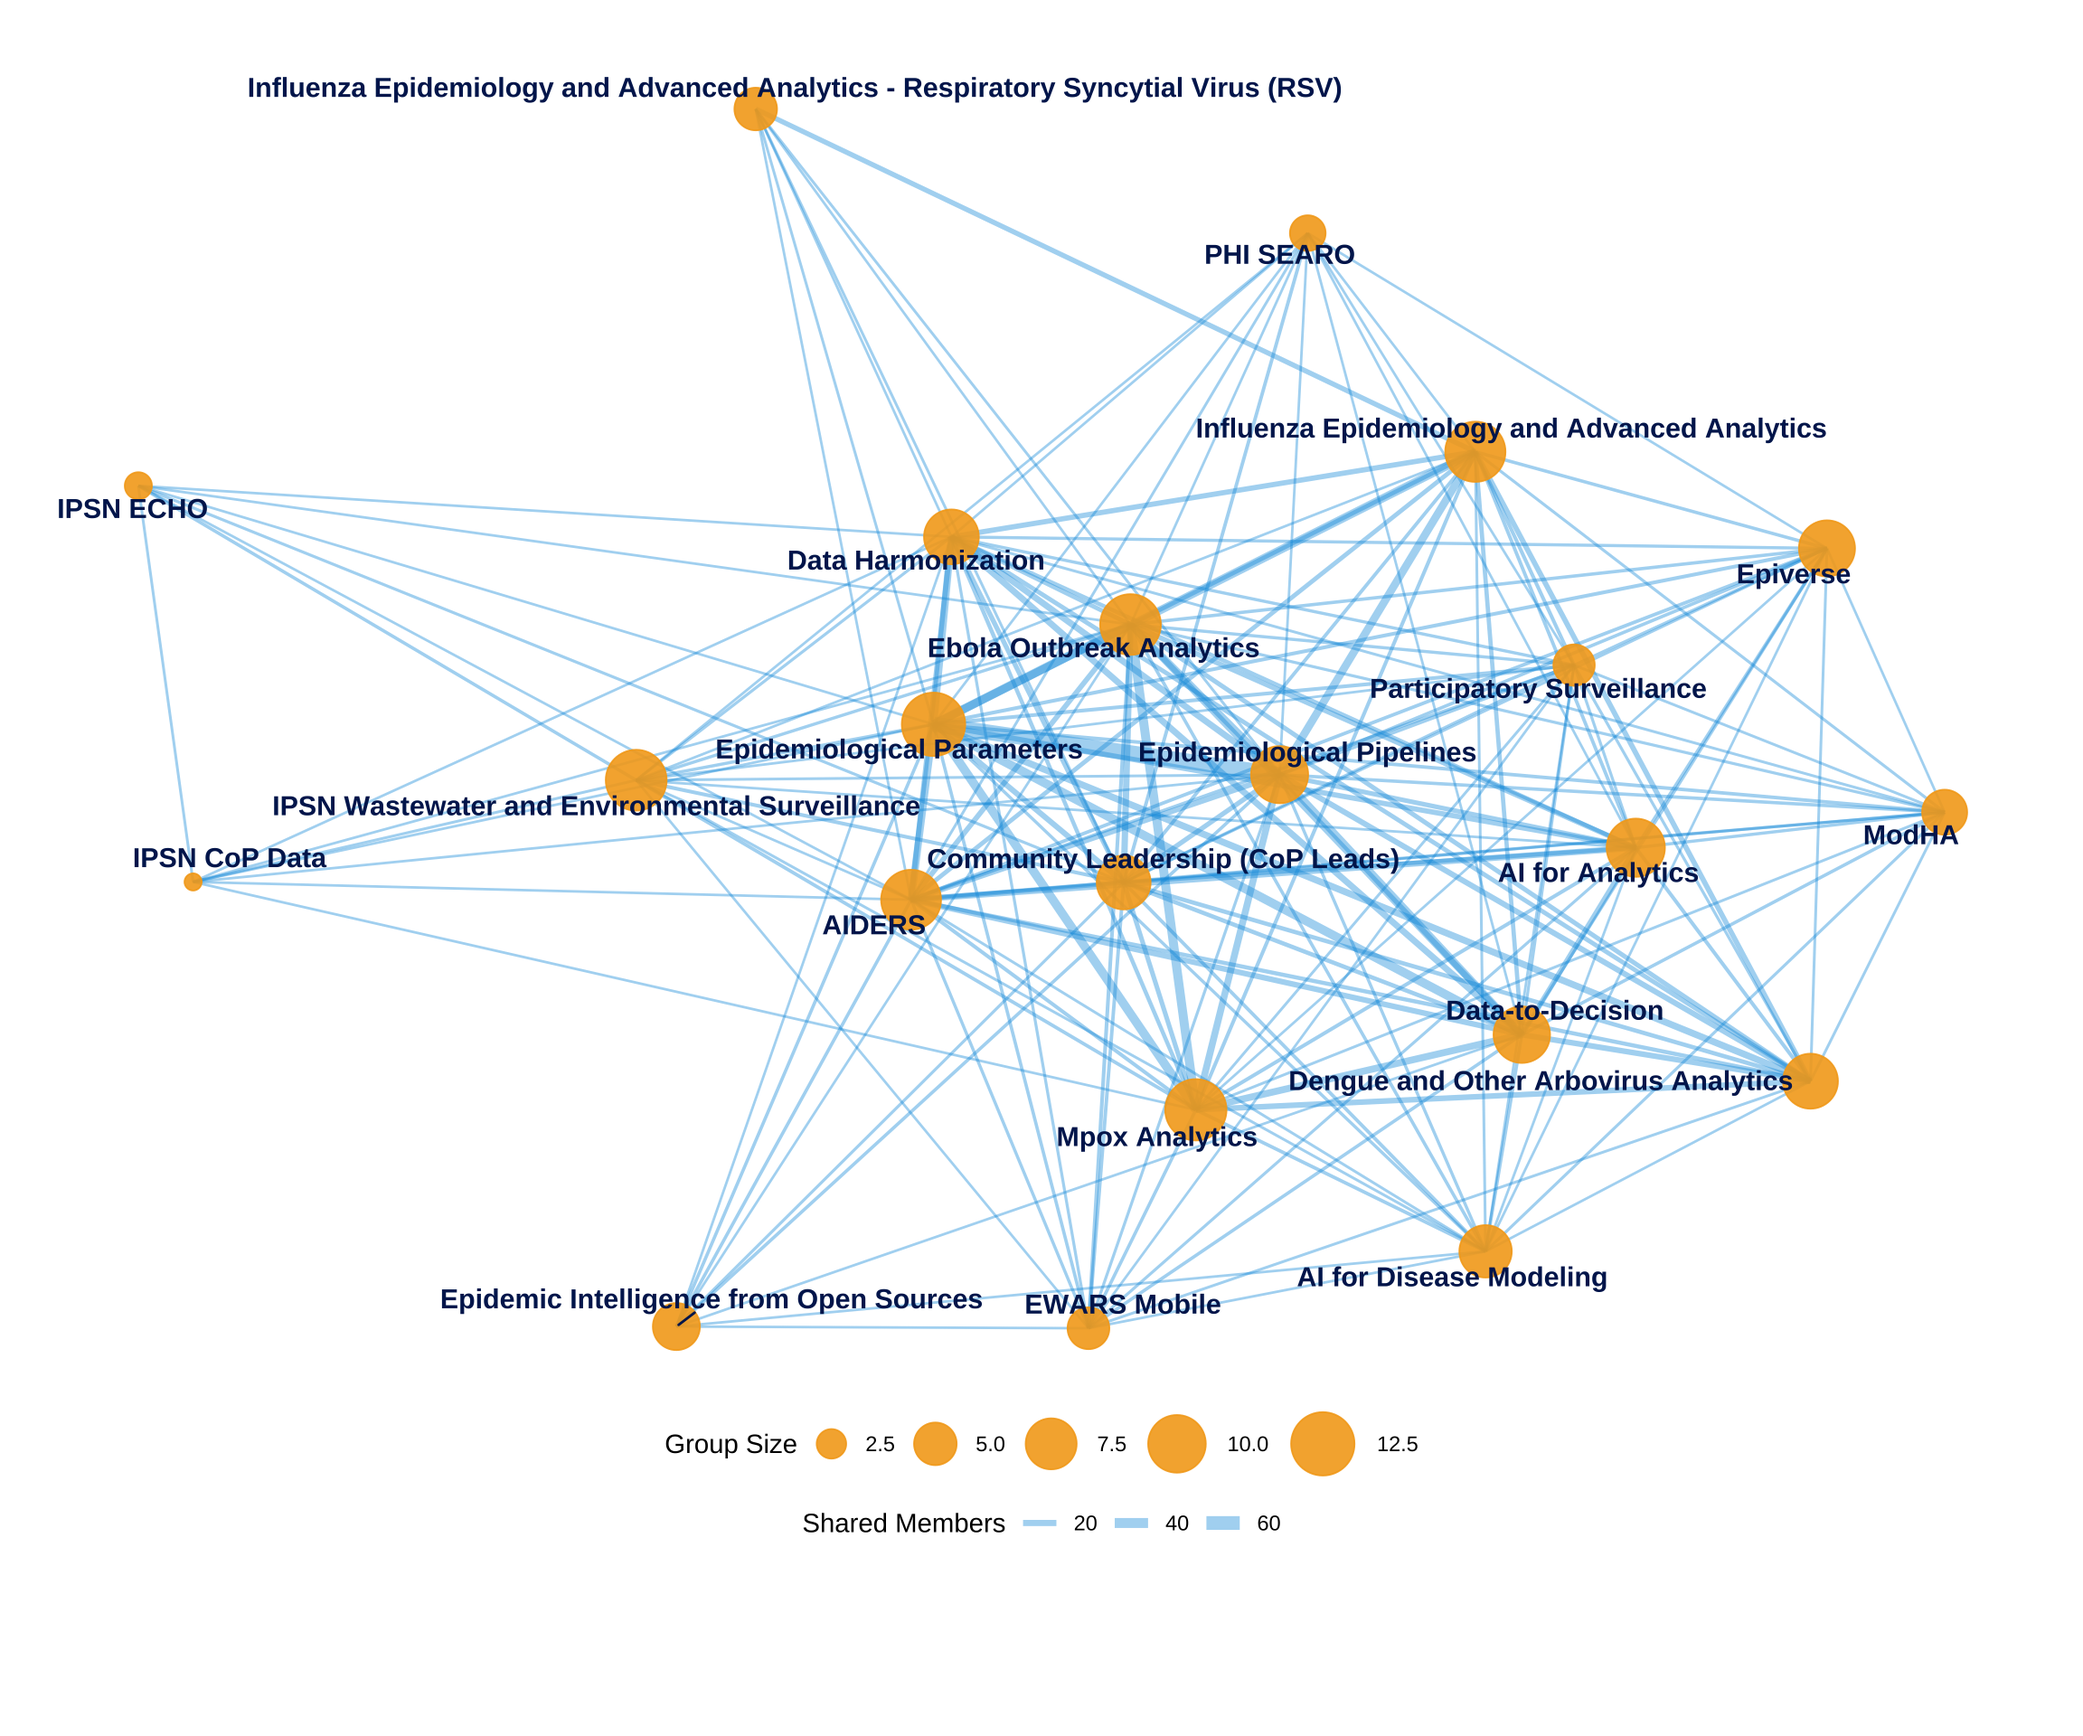
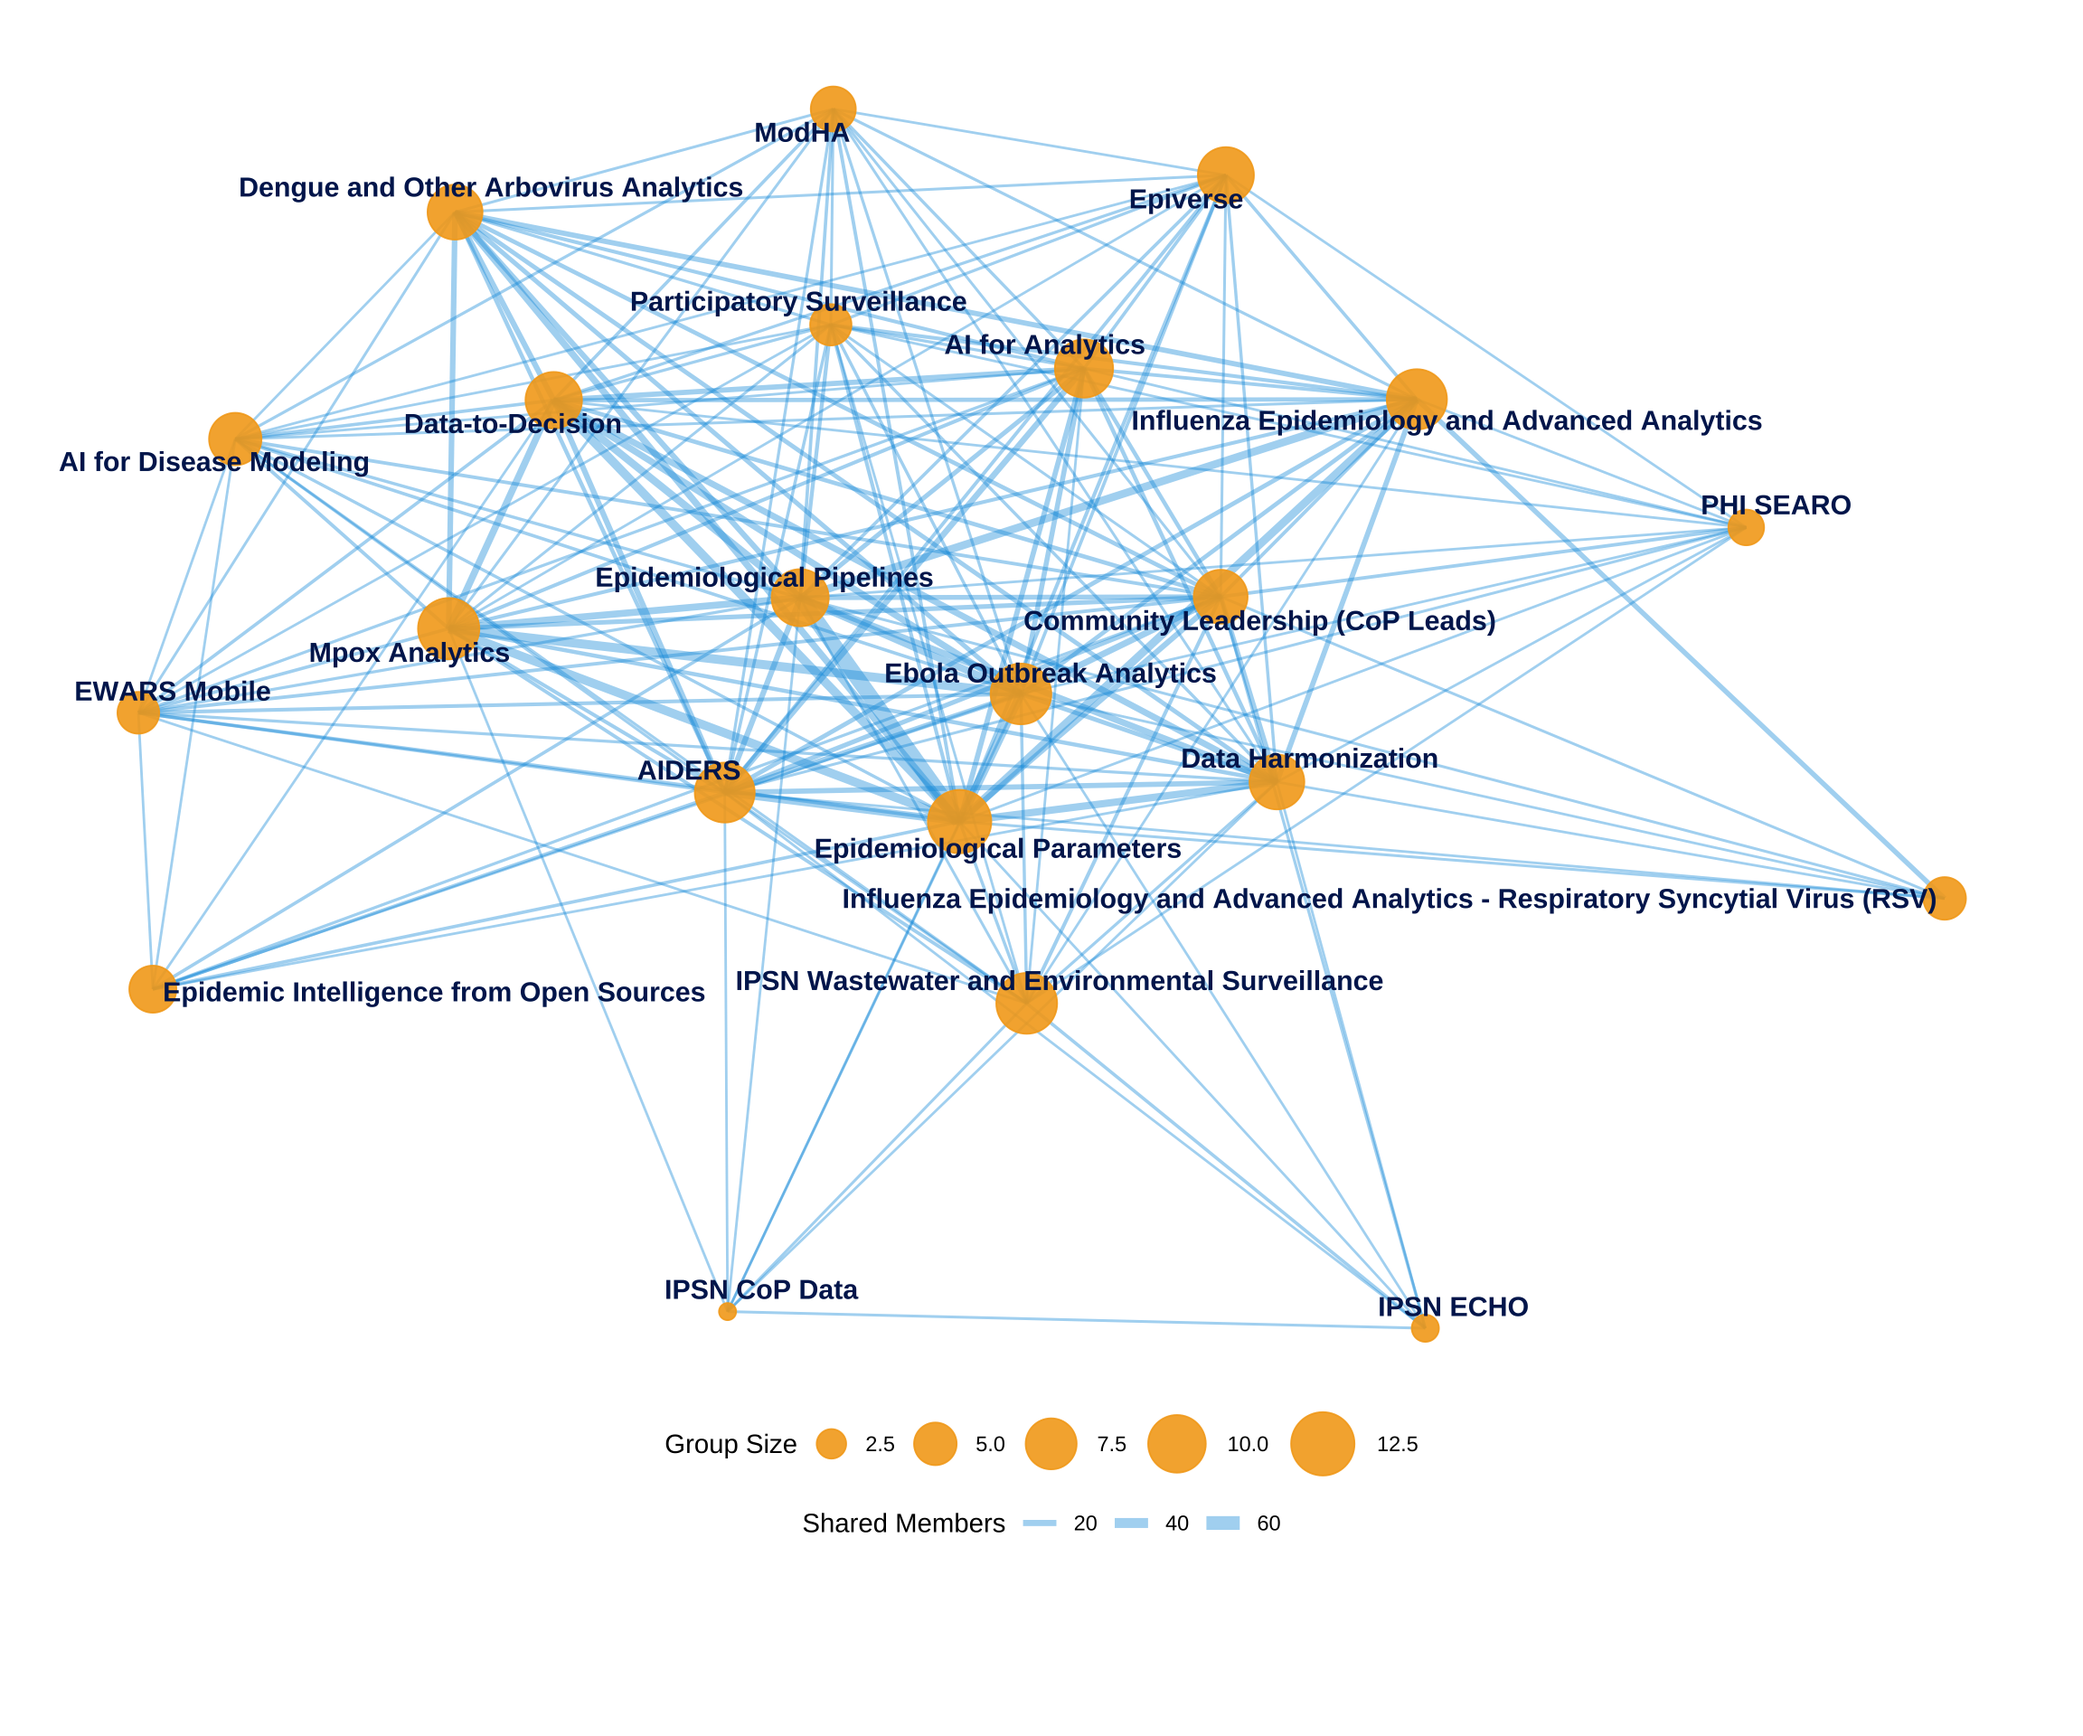
Built site for gh-pages

Changed region(s): [[0.0312, 0.0312, 0.9688, 0.7812], [0.2188, 0.7188, 0.25, 0.75]]

diff --git a/communities.html b/communities.html
@@ -266,23 +266,23 @@ ul.task-list li input[type="checkbox"] {
 <div class="cell">
 <div class="cell-output-display">
 
-<div id="oqhdhqsibu" style="padding-left:0px;padding-right:0px;padding-top:10px;padding-bottom:10px;overflow-x:auto;overflow-y:auto;width:auto;height:auto;">
-<style>#oqhdhqsibu table {
+<div id="zrghtzspah" style="padding-left:0px;padding-right:0px;padding-top:10px;padding-bottom:10px;overflow-x:auto;overflow-y:auto;width:auto;height:auto;">
+<style>#zrghtzspah table {
   font-family: 'Lato, sans-serif';
   -webkit-font-smoothing: antialiased;
   -moz-osx-font-smoothing: grayscale;
 }
 
-#oqhdhqsibu thead, #oqhdhqsibu tbody, #oqhdhqsibu tfoot, #oqhdhqsibu tr, #oqhdhqsibu td, #oqhdhqsibu th {
+#zrghtzspah thead, #zrghtzspah tbody, #zrghtzspah tfoot, #zrghtzspah tr, #zrghtzspah td, #zrghtzspah th {
   border-style: none;
 }
 
-#oqhdhqsibu p {
+#zrghtzspah p {
   margin: 0;
   padding: 0;
 }
 
-#oqhdhqsibu .gt_table {
+#zrghtzspah .gt_table {
   display: table;
   border-collapse: collapse;
   line-height: normal;
@@ -308,12 +308,12 @@ ul.task-list li input[type="checkbox"] {
   border-left-color: #D3D3D3;
 }
 
-#oqhdhqsibu .gt_caption {
+#zrghtzspah .gt_caption {
   padding-top: 4px;
   padding-bottom: 4px;
 }
 
-#oqhdhqsibu .gt_title {
+#zrghtzspah .gt_title {
   color: #333333;
   font-size: 125%;
   font-weight: initial;
@@ -325,7 +325,7 @@ ul.task-list li input[type="checkbox"] {
   border-bottom-width: 0;
 }
 
-#oqhdhqsibu .gt_subtitle {
+#zrghtzspah .gt_subtitle {
   color: #333333;
   font-size: 85%;
   font-weight: initial;
@@ -337,7 +337,7 @@ ul.task-list li input[type="checkbox"] {
   border-top-width: 0;
 }
 
-#oqhdhqsibu .gt_heading {
+#zrghtzspah .gt_heading {
   background-color: #FFFFFF;
   text-align: center;
   border-bottom-color: #FFFFFF;
@@ -349,13 +349,13 @@ ul.task-list li input[type="checkbox"] {
   border-right-color: #D3D3D3;
 }
 
-#oqhdhqsibu .gt_bottom_border {
+#zrghtzspah .gt_bottom_border {
   border-bottom-style: none;
   border-bottom-width: 2px;
   border-bottom-color: #D3D3D3;
 }
 
-#oqhdhqsibu .gt_col_headings {
+#zrghtzspah .gt_col_headings {
   border-top-style: none;
   border-top-width: 2px;
   border-top-color: #D3D3D3;
@@ -370,7 +370,7 @@ ul.task-list li input[type="checkbox"] {
   border-right-color: #D3D3D3;
 }
 
-#oqhdhqsibu .gt_col_heading {
+#zrghtzspah .gt_col_heading {
   color: #FFFFFF;
   background-color: #009ADE;
   font-size: 100%;
@@ -390,7 +390,7 @@ ul.task-list li input[type="checkbox"] {
   overflow-x: hidden;
 }
 
-#oqhdhqsibu .gt_column_spanner_outer {
+#zrghtzspah .gt_column_spanner_outer {
   color: #FFFFFF;
   background-color: #009ADE;
   font-size: 100%;
@@ -402,15 +402,15 @@ ul.task-list li input[type="checkbox"] {
   padding-right: 4px;
 }
 
-#oqhdhqsibu .gt_column_spanner_outer:first-child {
+#zrghtzspah .gt_column_spanner_outer:first-child {
   padding-left: 0;
 }
 
-#oqhdhqsibu .gt_column_spanner_outer:last-child {
+#zrghtzspah .gt_column_spanner_outer:last-child {
   padding-right: 0;
 }
 
-#oqhdhqsibu .gt_column_spanner {
+#zrghtzspah .gt_column_spanner {
   border-bottom-style: none;
   border-bottom-width: 2px;
   border-bottom-color: #D3D3D3;
@@ -422,11 +422,11 @@ ul.task-list li input[type="checkbox"] {
   width: 100%;
 }
 
-#oqhdhqsibu .gt_spanner_row {
+#zrghtzspah .gt_spanner_row {
   border-bottom-style: hidden;
 }
 
-#oqhdhqsibu .gt_group_heading {
+#zrghtzspah .gt_group_heading {
   padding-top: 8px;
   padding-bottom: 8px;
   padding-left: 5px;
@@ -452,7 +452,7 @@ ul.task-list li input[type="checkbox"] {
   text-align: left;
 }
 
-#oqhdhqsibu .gt_empty_group_heading {
+#zrghtzspah .gt_empty_group_heading {
   padding: 0.5px;
   color: #333333;
   background-color: #FFFFFF;
@@ -467,15 +467,15 @@ ul.task-list li input[type="checkbox"] {
   vertical-align: middle;
 }
 
-#oqhdhqsibu .gt_from_md > :first-child {
+#zrghtzspah .gt_from_md > :first-child {
   margin-top: 0;
 }
 
-#oqhdhqsibu .gt_from_md > :last-child {
+#zrghtzspah .gt_from_md > :last-child {
   margin-bottom: 0;
 }
 
-#oqhdhqsibu .gt_row {
+#zrghtzspah .gt_row {
   padding-top: 8px;
   padding-bottom: 8px;
   padding-left: 5px;
@@ -494,7 +494,7 @@ ul.task-list li input[type="checkbox"] {
   overflow-x: hidden;
 }
 
-#oqhdhqsibu .gt_stub {
+#zrghtzspah .gt_stub {
   color: #333333;
   background-color: #FFFFFF;
   font-size: 100%;
@@ -507,7 +507,7 @@ ul.task-list li input[type="checkbox"] {
   padding-right: 5px;
 }
 
-#oqhdhqsibu .gt_stub_row_group {
+#zrghtzspah .gt_stub_row_group {
   color: #333333;
   background-color: #FFFFFF;
   font-size: 100%;
@@ -521,15 +521,15 @@ ul.task-list li input[type="checkbox"] {
   vertical-align: top;
 }
 
-#oqhdhqsibu .gt_row_group_first td {
+#zrghtzspah .gt_row_group_first td {
   border-top-width: 2px;
 }
 
-#oqhdhqsibu .gt_row_group_first th {
+#zrghtzspah .gt_row_group_first th {
   border-top-width: 2px;
 }
 
-#oqhdhqsibu .gt_summary_row {
+#zrghtzspah .gt_summary_row {
   color: #333333;
   background-color: #FFFFFF;
   text-transform: inherit;
@@ -539,16 +539,16 @@ ul.task-list li input[type="checkbox"] {
   padding-right: 5px;
 }
 
-#oqhdhqsibu .gt_first_summary_row {
+#zrghtzspah .gt_first_summary_row {
   border-top-style: solid;
   border-top-color: #D3D3D3;
 }
 
-#oqhdhqsibu .gt_first_summary_row.thick {
+#zrghtzspah .gt_first_summary_row.thick {
   border-top-width: 2px;
 }
 
-#oqhdhqsibu .gt_last_summary_row {
+#zrghtzspah .gt_last_summary_row {
   padding-top: 8px;
   padding-bottom: 8px;
   padding-left: 5px;
@@ -558,7 +558,7 @@ ul.task-list li input[type="checkbox"] {
   border-bottom-color: #D3D3D3;
 }
 
-#oqhdhqsibu .gt_grand_summary_row {
+#zrghtzspah .gt_grand_summary_row {
   color: #333333;
   background-color: #FFFFFF;
   text-transform: inherit;
@@ -568,7 +568,7 @@ ul.task-list li input[type="checkbox"] {
   padding-right: 5px;
 }
 
-#oqhdhqsibu .gt_first_grand_summary_row {
+#zrghtzspah .gt_first_grand_summary_row {
   padding-top: 8px;
   padding-bottom: 8px;
   padding-left: 5px;
@@ -578,7 +578,7 @@ ul.task-list li input[type="checkbox"] {
   border-top-color: #D3D3D3;
 }
 
-#oqhdhqsibu .gt_last_grand_summary_row_top {
+#zrghtzspah .gt_last_grand_summary_row_top {
   padding-top: 8px;
   padding-bottom: 8px;
   padding-left: 5px;
@@ -588,11 +588,11 @@ ul.task-list li input[type="checkbox"] {
   border-bottom-color: #D3D3D3;
 }
 
-#oqhdhqsibu .gt_striped {
+#zrghtzspah .gt_striped {
   background-color: #F8F9FA;
 }
 
-#oqhdhqsibu .gt_table_body {
+#zrghtzspah .gt_table_body {
   border-top-style: none;
   border-top-width: 2px;
   border-top-color: #D3D3D3;
@@ -601,7 +601,7 @@ ul.task-list li input[type="checkbox"] {
   border-bottom-color: #E5E7EB;
 }
 
-#oqhdhqsibu .gt_footnotes {
+#zrghtzspah .gt_footnotes {
   color: #333333;
   background-color: #FFFFFF;
   border-bottom-style: none;
@@ -615,7 +615,7 @@ ul.task-list li input[type="checkbox"] {
   border-right-color: #D3D3D3;
 }
 
-#oqhdhqsibu .gt_footnote {
+#zrghtzspah .gt_footnote {
   margin: 0px;
   font-size: 13px;
   padding-top: 4px;
@@ -624,7 +624,7 @@ ul.task-list li input[type="checkbox"] {
   padding-right: 5px;
 }
 
-#oqhdhqsibu .gt_sourcenotes {
+#zrghtzspah .gt_sourcenotes {
   color: #333333;
   background-color: #FFFFFF;
   border-bottom-style: none;
@@ -638,7 +638,7 @@ ul.task-list li input[type="checkbox"] {
   border-right-color: #D3D3D3;
 }
 
-#oqhdhqsibu .gt_sourcenote {
+#zrghtzspah .gt_sourcenote {
   font-size: 13px;
   padding-top: 4px;
   padding-bottom: 4px;
@@ -646,63 +646,63 @@ ul.task-list li input[type="checkbox"] {
   padding-right: 5px;
 }
 
-#oqhdhqsibu .gt_left {
+#zrghtzspah .gt_left {
   text-align: left;
 }
 
-#oqhdhqsibu .gt_center {
+#zrghtzspah .gt_center {
   text-align: center;
 }
 
-#oqhdhqsibu .gt_right {
+#zrghtzspah .gt_right {
   text-align: right;
   font-variant-numeric: tabular-nums;
 }
 
-#oqhdhqsibu .gt_font_normal {
+#zrghtzspah .gt_font_normal {
   font-weight: normal;
 }
 
-#oqhdhqsibu .gt_font_bold {
+#zrghtzspah .gt_font_bold {
   font-weight: bold;
 }
 
-#oqhdhqsibu .gt_font_italic {
+#zrghtzspah .gt_font_italic {
   font-style: italic;
 }
 
-#oqhdhqsibu .gt_super {
+#zrghtzspah .gt_super {
   font-size: 65%;
 }
 
-#oqhdhqsibu .gt_footnote_marks {
+#zrghtzspah .gt_footnote_marks {
   font-size: 75%;
   vertical-align: 0.4em;
   position: initial;
 }
 
-#oqhdhqsibu .gt_asterisk {
+#zrghtzspah .gt_asterisk {
   font-size: 100%;
   vertical-align: 0;
 }
 
-#oqhdhqsibu .gt_indent_1 {
+#zrghtzspah .gt_indent_1 {
   text-indent: 5px;
 }
 
-#oqhdhqsibu .gt_indent_2 {
+#zrghtzspah .gt_indent_2 {
   text-indent: 10px;
 }
 
-#oqhdhqsibu .gt_indent_3 {
+#zrghtzspah .gt_indent_3 {
   text-indent: 15px;
 }
 
-#oqhdhqsibu .gt_indent_4 {
+#zrghtzspah .gt_indent_4 {
   text-indent: 20px;
 }
 
-#oqhdhqsibu .gt_indent_5 {
+#zrghtzspah .gt_indent_5 {
   text-indent: 25px;
 }
 
